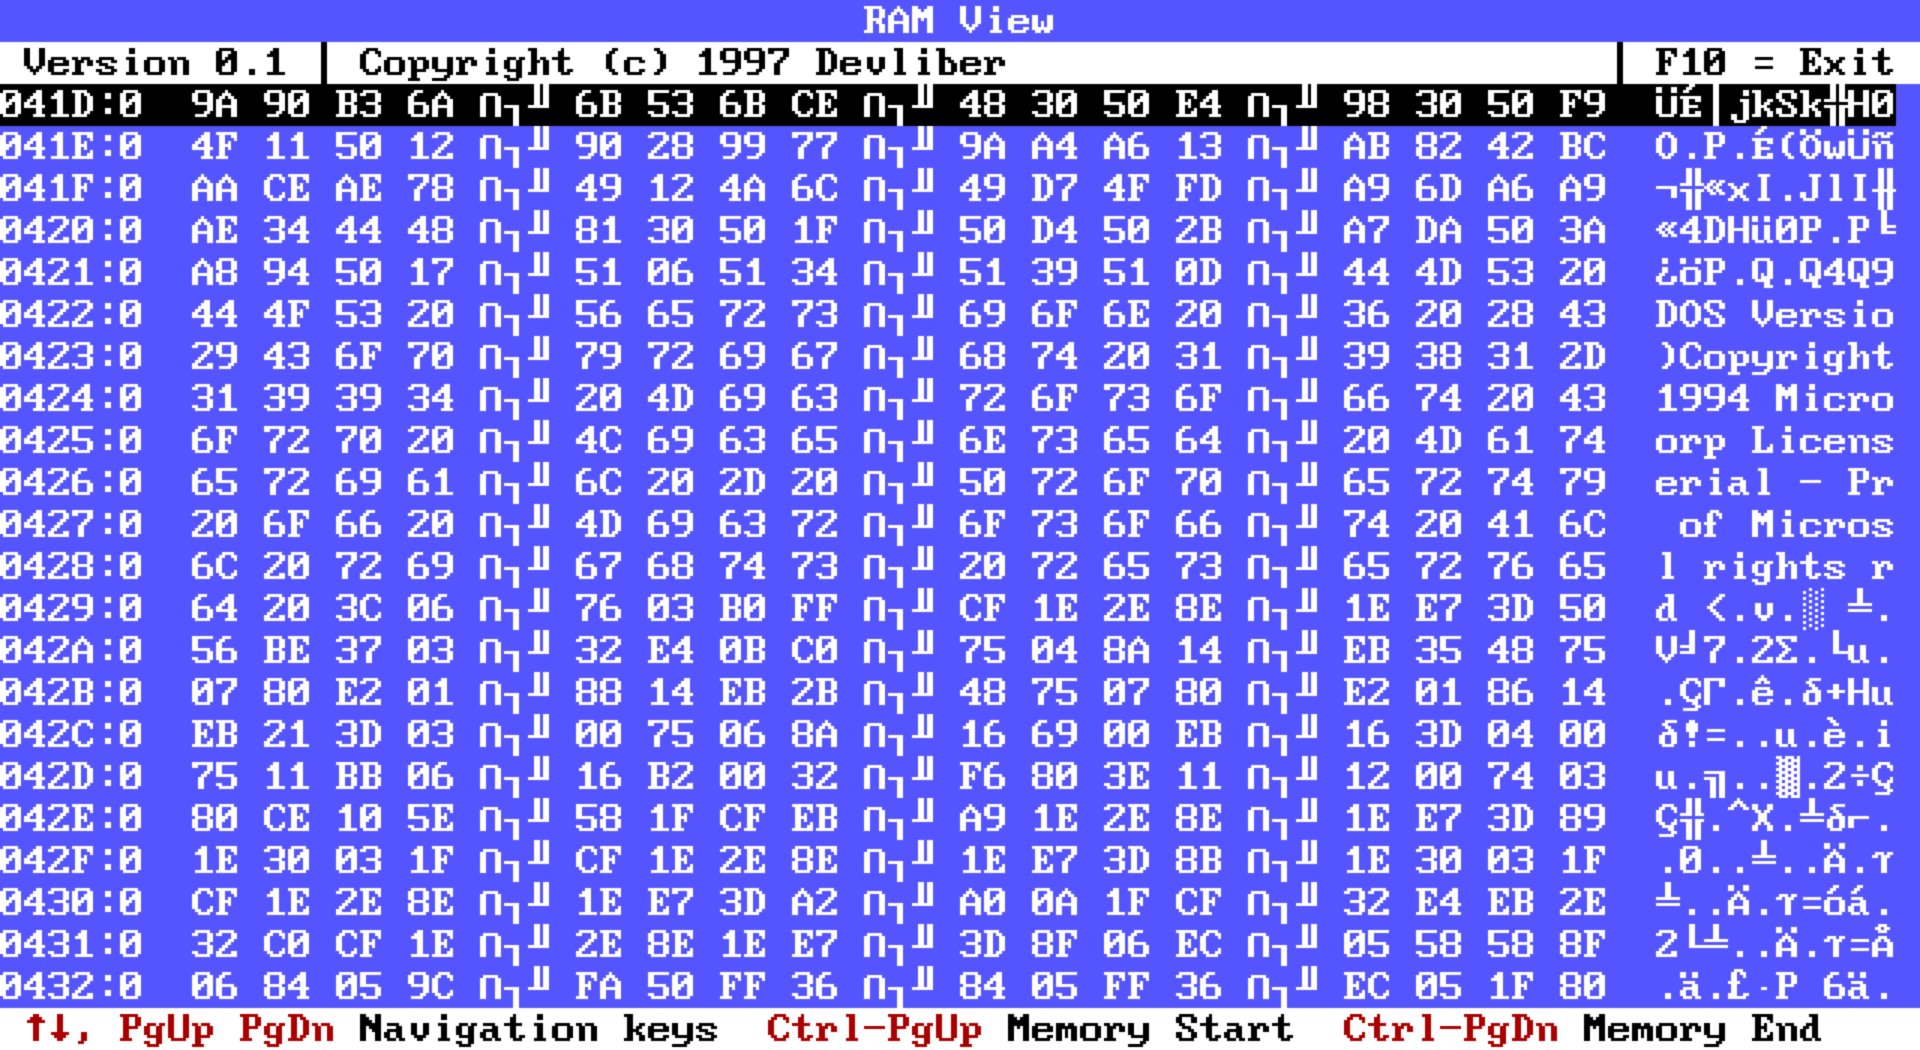
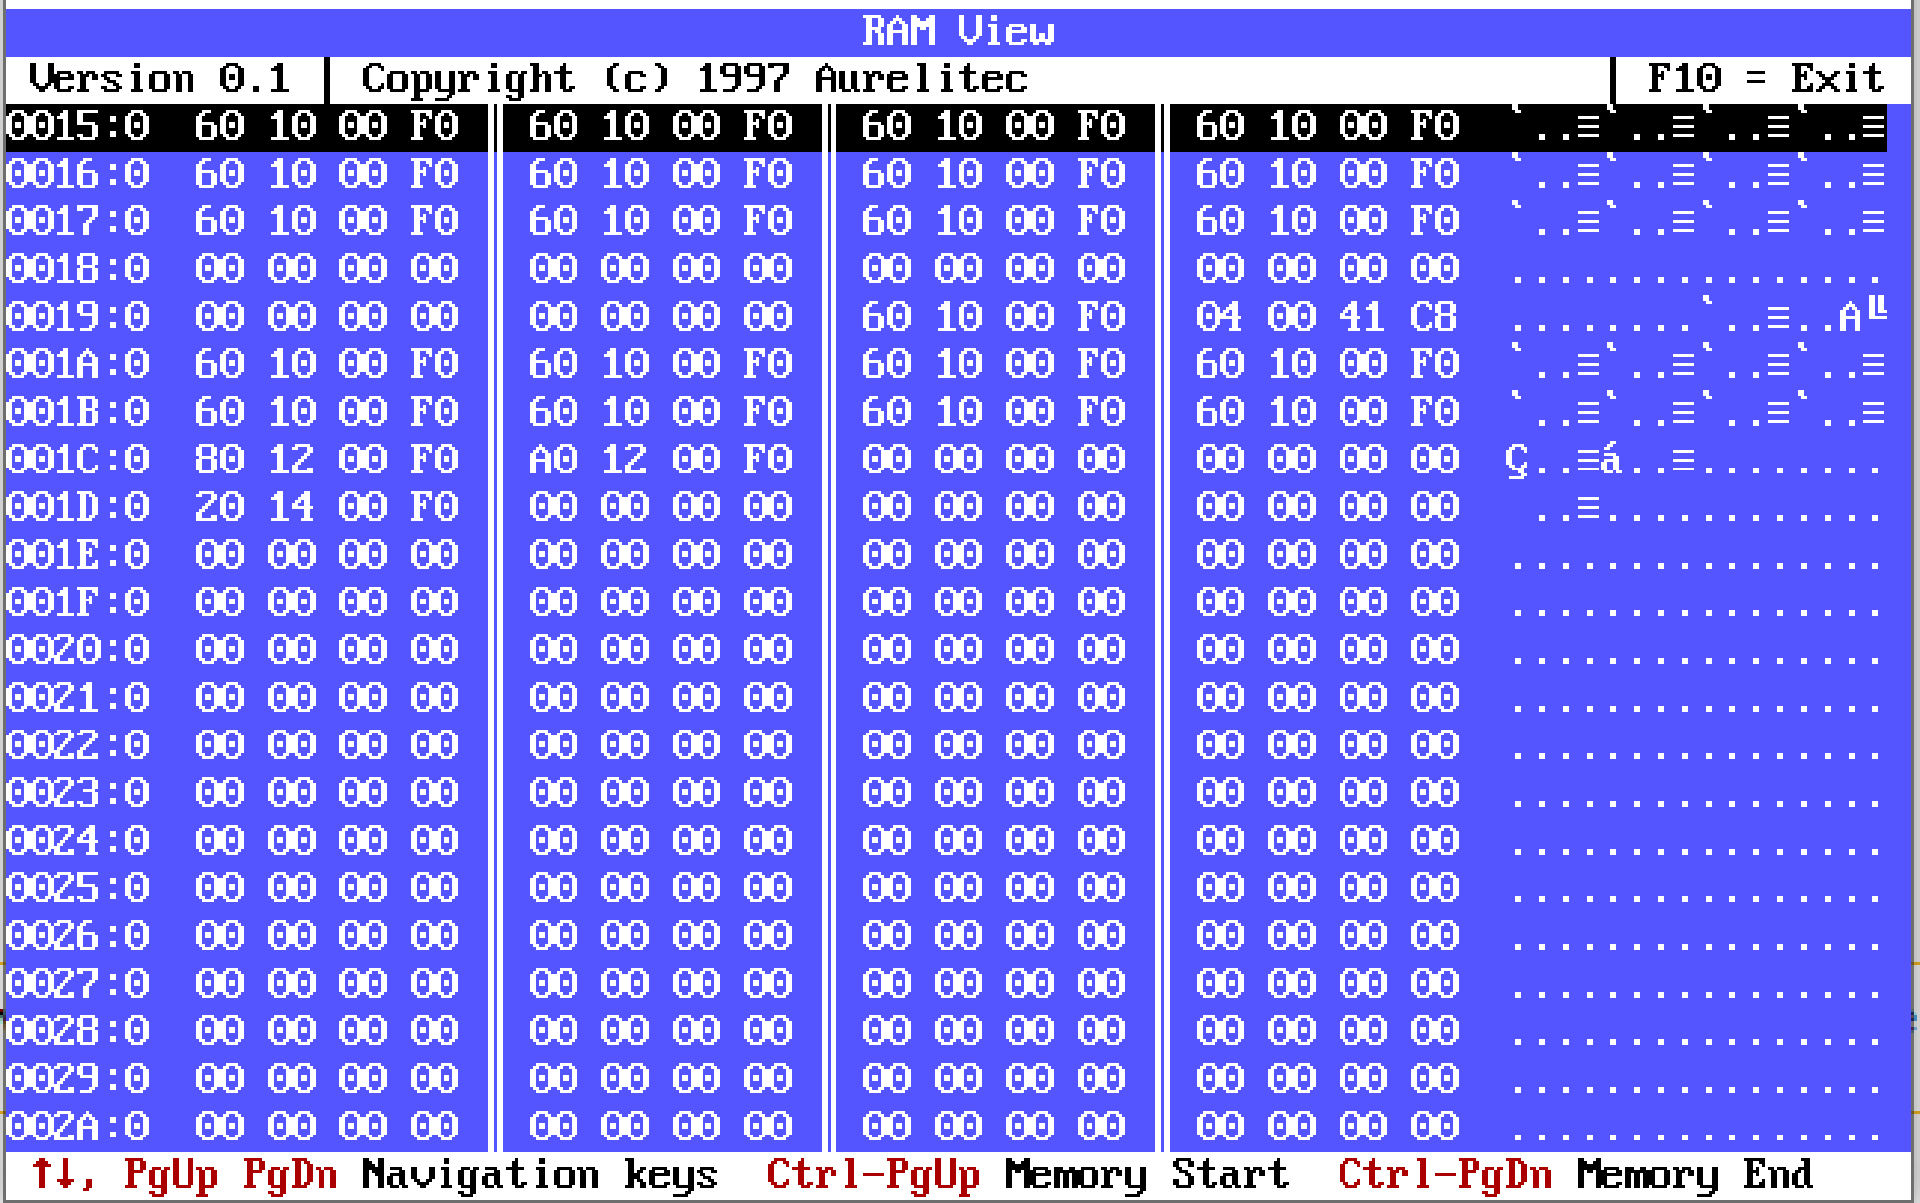
Fixed minor bugs with the display of symbols

diff --git a/src/RAMVIEW.CPP b/src/RAMVIEW.CPP
@@ -50,9 +50,9 @@ void drawScreen(void)
 
     // display version and author information
     win(1, 2, 80, 2, cAppInfo);
-    cputs(" Version 0.1 � Copyright (c) 1997 Aurelitec");
+    cputs(" Version 0.1 \xb3 Copyright (c) 1997 Aurelitec");
     gotoxy(68, 1);
-    cputs("� F10 = Exit");
+    cputs("\xb3 F10 = Exit");
 
     win(1, 25, 80, 25, cAppInfo);
     textattr(cAppInfoSel);
@@ -114,7 +114,7 @@ char *TSRAMBox::getString(long item)
                 vals[i + j * 4] = '.';
         }
         if (j < 3)
-            strcat(buffer, " �");
+            strcat(buffer, " \xba");
     }
     vals[16] = EOS;
     strcat(buffer, "  ");

diff --git a/README.md b/README.md
@@ -1,7 +1,7 @@
 # RAM View
 A simple DOS memory viewer, with a simple text-based user interface. Written in Borland C++ in 1997.
 
-![Screenshot of RAM View running on PCjs](https://github.com/aurelitec/ramview/blob/main/assets/readme/ramview-pcjs-screenshot.png)
+![Screenshot of RAM View running on PCjs](assets/readme/ramview-pcjs-screenshot.png)
 
 ## Running
 
